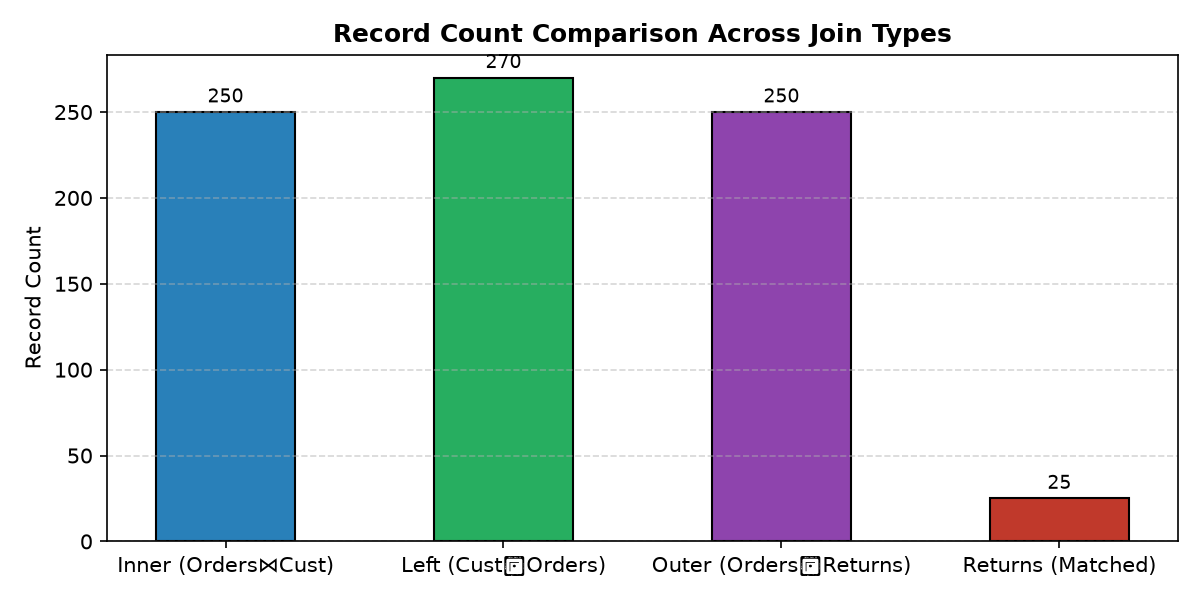
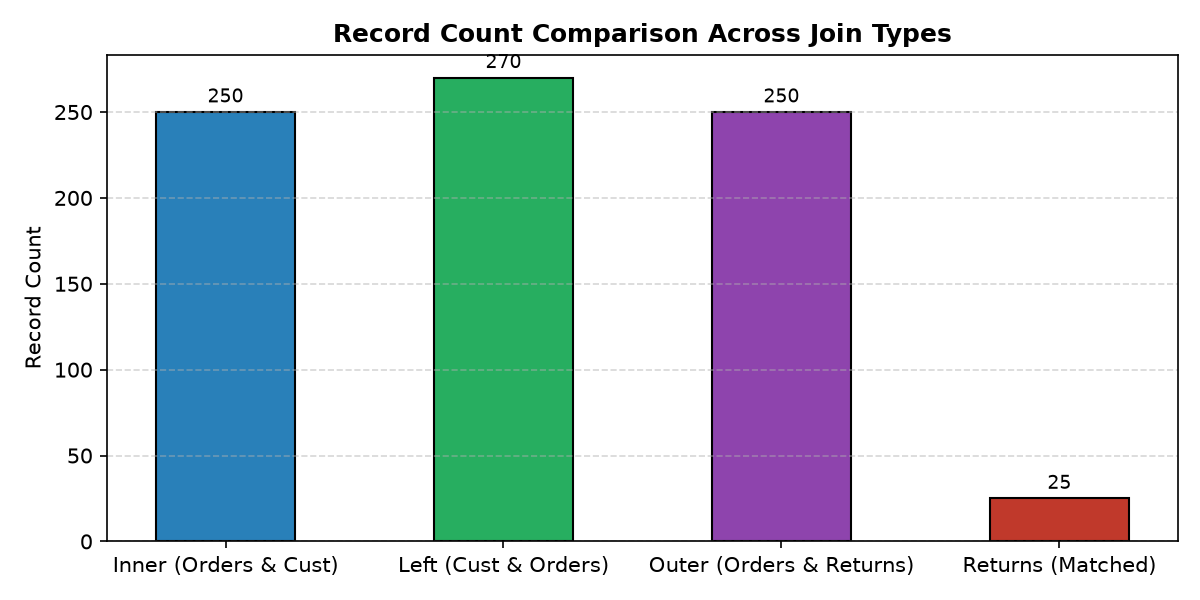
feat(day24): add Section 3 & 4 – multi-key merges, index joins, self-joins, and executive summary dashboard

Changed region(s): [[0.3083, 0.93, 0.7708, 0.96], [0.0925, 0.93, 0.2775, 0.96]]

diff --git a/phase_1_python_programming/day-24-merging-joining/main.py b/phase_1_python_programming/day-24-merging-joining/main.py
@@ -303,6 +303,169 @@ def database_merges(orders_df: pd.DataFrame, customers_df: pd.DataFrame,
     return full_ledger
 
 
+
+# ===========================================================
+# SECTION 3 – MULTI-KEY MERGES, SUFFIXES & SELF-JOINS
+# ===========================================================
+
+def advanced_merges_and_self_joins(full_ledger: pd.DataFrame, returns_df: pd.DataFrame,
+                                   employees_df: pd.DataFrame) -> pd.DataFrame:
+    """
+    Demonstrates multi-key joins, suffix resolution, and self-joins.
+
+    Key concepts:
+      - on=['col1', 'col2']                 → multi-key join matching multiple criteria
+      - left_on='a', right_on='b'           → joining on differently named keys
+      - suffixes=('_order', '_return')      → resolve name collisions on shared columns
+      - Self-Join (df.merge(df, ...))       → join a table to itself to resolve hierarchical trees
+    """
+    print("\n" + "─" * 58)
+    print("SECTION 3 – Multi-Key Merges, Suffixes & Self-Joins")
+    print("─" * 58)
+
+    # ── 1. Suffix Disambiguation on Overlapping Column Names ────
+    # Both full_ledger and returns_df have date/id columns.
+    returns_merged = pd.merge(
+        full_ledger, returns_df, on="order_id", how="left", suffixes=("_order", "_return")
+    )
+    print(f"\n📌 Suffix Resolution (suffixes=('_order', '_return')):")
+    print(f"   Columns with suffixes: {[c for c in returns_merged.columns if '_order' in c or '_return' in c]}")
+    print(returns_merged[["order_id", "order_date", "return_date", "reason"]].dropna(subset=["return_date"]).head(3).to_string(index=False))
+
+    # ── 2. Multi-Key Join Example ──────────────────────────────
+    # Match transactions by both customer_id and region to find localized regional sales.
+    # We construct a regional promo budget DataFrame to join on (customer_id, region)
+    regional_promos = full_ledger[["customer_id", "region"]].drop_duplicates().copy()
+    regional_promos["promo_tier"] = np.random.choice(["Tier_A", "Tier_B"], size=len(regional_promos))
+
+    multi_key_df = pd.merge(full_ledger, regional_promos, on=["customer_id", "region"], how="left")
+    print(f"\n📌 Multi-Key Join (on=['customer_id', 'region']):")
+    print(f"   Total rows: {len(multi_key_df):,} | Sample promo tier assignment:")
+    print(multi_key_df[["order_id", "customer_id", "region", "promo_tier"]].head(3).to_string(index=False))
+
+    # ── 3. Self-Join on Employee Hierarchy ──────────────────────
+    # Maps employees to their respective direct managers within the same DataFrame.
+    org_chart = pd.merge(
+        employees_df,
+        employees_df[["emp_id", "emp_name", "salary", "department"]],
+        left_on="manager_id",
+        right_on="emp_id",
+        how="left",
+        suffixes=("_emp", "_mgr"),
+    )
+
+    # Compute salary differential between manager and employee
+    org_chart["salary_diff"] = org_chart["salary_mgr"] - org_chart["salary_emp"]
+
+    print(f"\n📌 Self-Join – Employee Organizational Tree:")
+    print(org_chart[["emp_name_emp", "department_emp", "salary_emp", "emp_name_mgr", "salary_mgr", "salary_diff"]].to_string(index=False))
+
+    # ── Visualise: Salary Distribution by Department & Manager Differential ──
+    fig, ax = plt.subplots(figsize=(8, 4))
+    dept_sal = org_chart.groupby("department_emp")["salary_emp"].mean()
+    
+    bars = ax.bar(dept_sal.index, dept_sal.values, color=["#E67E22", "#2980B9", "#27AE60"], width=0.5, edgecolor="black")
+    ax.set_title("Average Salary by Department (Resolved via Self-Join Hierarchy)", fontsize=11, fontweight="bold")
+    ax.set_ylabel("Average Salary ($)")
+    ax.yaxis.set_major_formatter(mticker.FuncFormatter(lambda v, _: f"${v/1_000:,.0f}K"))
+    ax.grid(axis="y", linestyle="--", alpha=0.5)
+
+    for bar in bars:
+        height = bar.get_height()
+        ax.text(bar.get_x() + bar.get_width() / 2, height + 2000, f"${height:,.0f}", ha="center", va="bottom", fontsize=9)
+
+    plt.tight_layout()
+    plt.savefig(os.path.join(SCRIPT_DIR, "s3_self_join_org.png"), dpi=150)
+    plt.show()
+    print("\n   ✅ s3_self_join_org.png saved")
+
+    return org_chart
+
+
+
+# ===========================================================
+# SECTION 4 – INDEX MERGING, COMBINE_FIRST & VALIDATION
+# ===========================================================
+
+def index_merges_and_validation(customers_df: pd.DataFrame, products_df: pd.DataFrame,
+                                full_ledger: pd.DataFrame) -> None:
+    """
+    Demonstrates index-based joins, combine_first patching, and merge validation.
+
+    Key concepts:
+      - left_index=True / right_index=True  → join using index keys instead of columns
+      - df.join(other_df, how=...)          → index-focused join convenience method
+      - df.combine_first(backup_df)         → patch missing values from a fallback dataset
+      - validate='1:m' / 'm:1' / '1:1'      → enforce relational schema integrity checks
+    """
+    print("\n" + "─" * 58)
+    print("SECTION 4 – Index Merging, combine_first() & Validation")
+    print("─" * 58)
+
+    # Prepare index-indexed DataFrames
+    cust_indexed = customers_df.set_index("customer_id")
+    prod_indexed = products_df.set_index("product_id")
+
+    # ── 1. Index-based Join using df.join() ────────────────────
+    # Join orders with indexed customer directory using customer_id key
+    orders_sample = full_ledger.head(5).copy()
+    joined_by_index = orders_sample.join(cust_indexed, on="customer_id", lsuffix="_ledger")
+    print(f"\n📌 Index Join via df.join(on='customer_id'):")
+    print(joined_by_index[["order_id", "customer_id", "name", "region", "gross_revenue"]].to_string(index=False))
+
+    # ── 2. combine_first() for Fallback Data Patching ───────────
+    # Simulate a main product catalog with missing unit prices, patched from a secondary backup
+    incomplete_catalog = prod_indexed[["product_name", "retail_price"]].copy()
+    incomplete_catalog.loc[["P10", "P30"], "retail_price"] = np.nan
+
+    backup_catalog = prod_indexed[["product_name", "retail_price"]].copy()
+
+    patched_catalog = incomplete_catalog.combine_first(backup_catalog)
+    print(f"\n📌 combine_first() Data Patching:")
+    print(f"   Missing values before patch: {incomplete_catalog['retail_price'].isna().sum()}")
+    print(f"   Missing values after patch:  {patched_catalog['retail_price'].isna().sum()}")
+
+    # ── 3. Merge Validation Rules (Data Integrity Enforcement) ─
+    # validate='1:m' ensures customer_id is unique on the left side (1 customer -> many orders)
+    try:
+        valid_merge = pd.merge(customers_df, full_ledger, on="customer_id", how="inner", validate="1:m")
+        print(f"\n📌 Merge Validation (validate='1:m'): Success ✅")
+        print(f"   Schema constraint verified: customer_id is unique in left DataFrame.")
+    except Exception as e:
+        print(f"\n❌ Merge Validation Failed: {e}")
+
+    # ── 4. Visualise: Executive Multi-Panel Revenue & Profit Dashboard ──
+    fig, (ax1, ax2) = plt.subplots(1, 2, figsize=(12, 4.5))
+
+    # Panel 1: Gross Revenue by Customer Tier
+    tier_revenue = full_ledger.groupby("tier")["gross_revenue"].sum().reindex(["Bronze", "Silver", "Gold", "Platinum"])
+    ax1.bar(tier_revenue.index, tier_revenue.values, color="#3498DB", edgecolor="black", width=0.5)
+    ax1.set_title("Gross Revenue by Customer Tier", fontsize=11, fontweight="bold")
+    ax1.set_ylabel("Revenue ($)")
+    ax1.yaxis.set_major_formatter(mticker.FuncFormatter(lambda v, _: f"${v/1_000:,.0f}K"))
+    ax1.grid(axis="y", linestyle="--", alpha=0.5)
+    for bar in ax1.patches:
+        h = bar.get_height()
+        ax1.text(bar.get_x() + bar.get_width()/2, h + 1000, f"${h/1_000:,.1f}K", ha="center", va="bottom", fontsize=8)
+
+    # Panel 2: Profit Margin % by Product Category
+    cat_financials = full_ledger.groupby("category")[["gross_revenue", "gross_profit"]].sum()
+    cat_financials["profit_margin_pct"] = (cat_financials["gross_profit"] / cat_financials["gross_revenue"]) * 100
+
+    ax2.bar(cat_financials.index, cat_financials["profit_margin_pct"], color="#E74C3C", edgecolor="black", width=0.45)
+    ax2.set_title("Gross Profit Margin (%) by Product Category", fontsize=11, fontweight="bold")
+    ax2.set_ylabel("Margin %")
+    ax2.grid(axis="y", linestyle="--", alpha=0.5)
+    for bar in ax2.patches:
+        h = bar.get_height()
+        ax2.text(bar.get_x() + bar.get_width()/2, h + 0.5, f"{h:.1f}%", ha="center", va="bottom", fontsize=8)
+
+    plt.tight_layout()
+    plt.savefig(os.path.join(SCRIPT_DIR, "s4_executive_summary.png"), dpi=150)
+    plt.show()
+    print("\n   ✅ s4_executive_summary.png saved")
+
+
 # ===========================================================
 # ENTRY POINT
 # ===========================================================
@@ -325,3 +488,18 @@ if __name__ == "__main__":
     full_ledger_df = database_merges(
         all_orders_df, datasets["customers"], datasets["products"], datasets["returns"]
     )
+
+    # Section 3 – Multi-Key Merges, Suffixes & Self-Joins
+    org_chart_df = advanced_merges_and_self_joins(
+        full_ledger_df, datasets["returns"], datasets["employees"]
+    )
+
+    # Section 4 – Index Merging, combine_first() & Validation
+    index_merges_and_validation(
+        datasets["customers"], datasets["products"], full_ledger_df
+    )
+
+    print("\n" + "=" * 62)
+    print("  ✅ Day 24 – All Sections Complete!")
+    print("  Topics: pd.concat, pd.merge, Self-Joins, Index Joins, Validation")
+    print("=" * 62)
